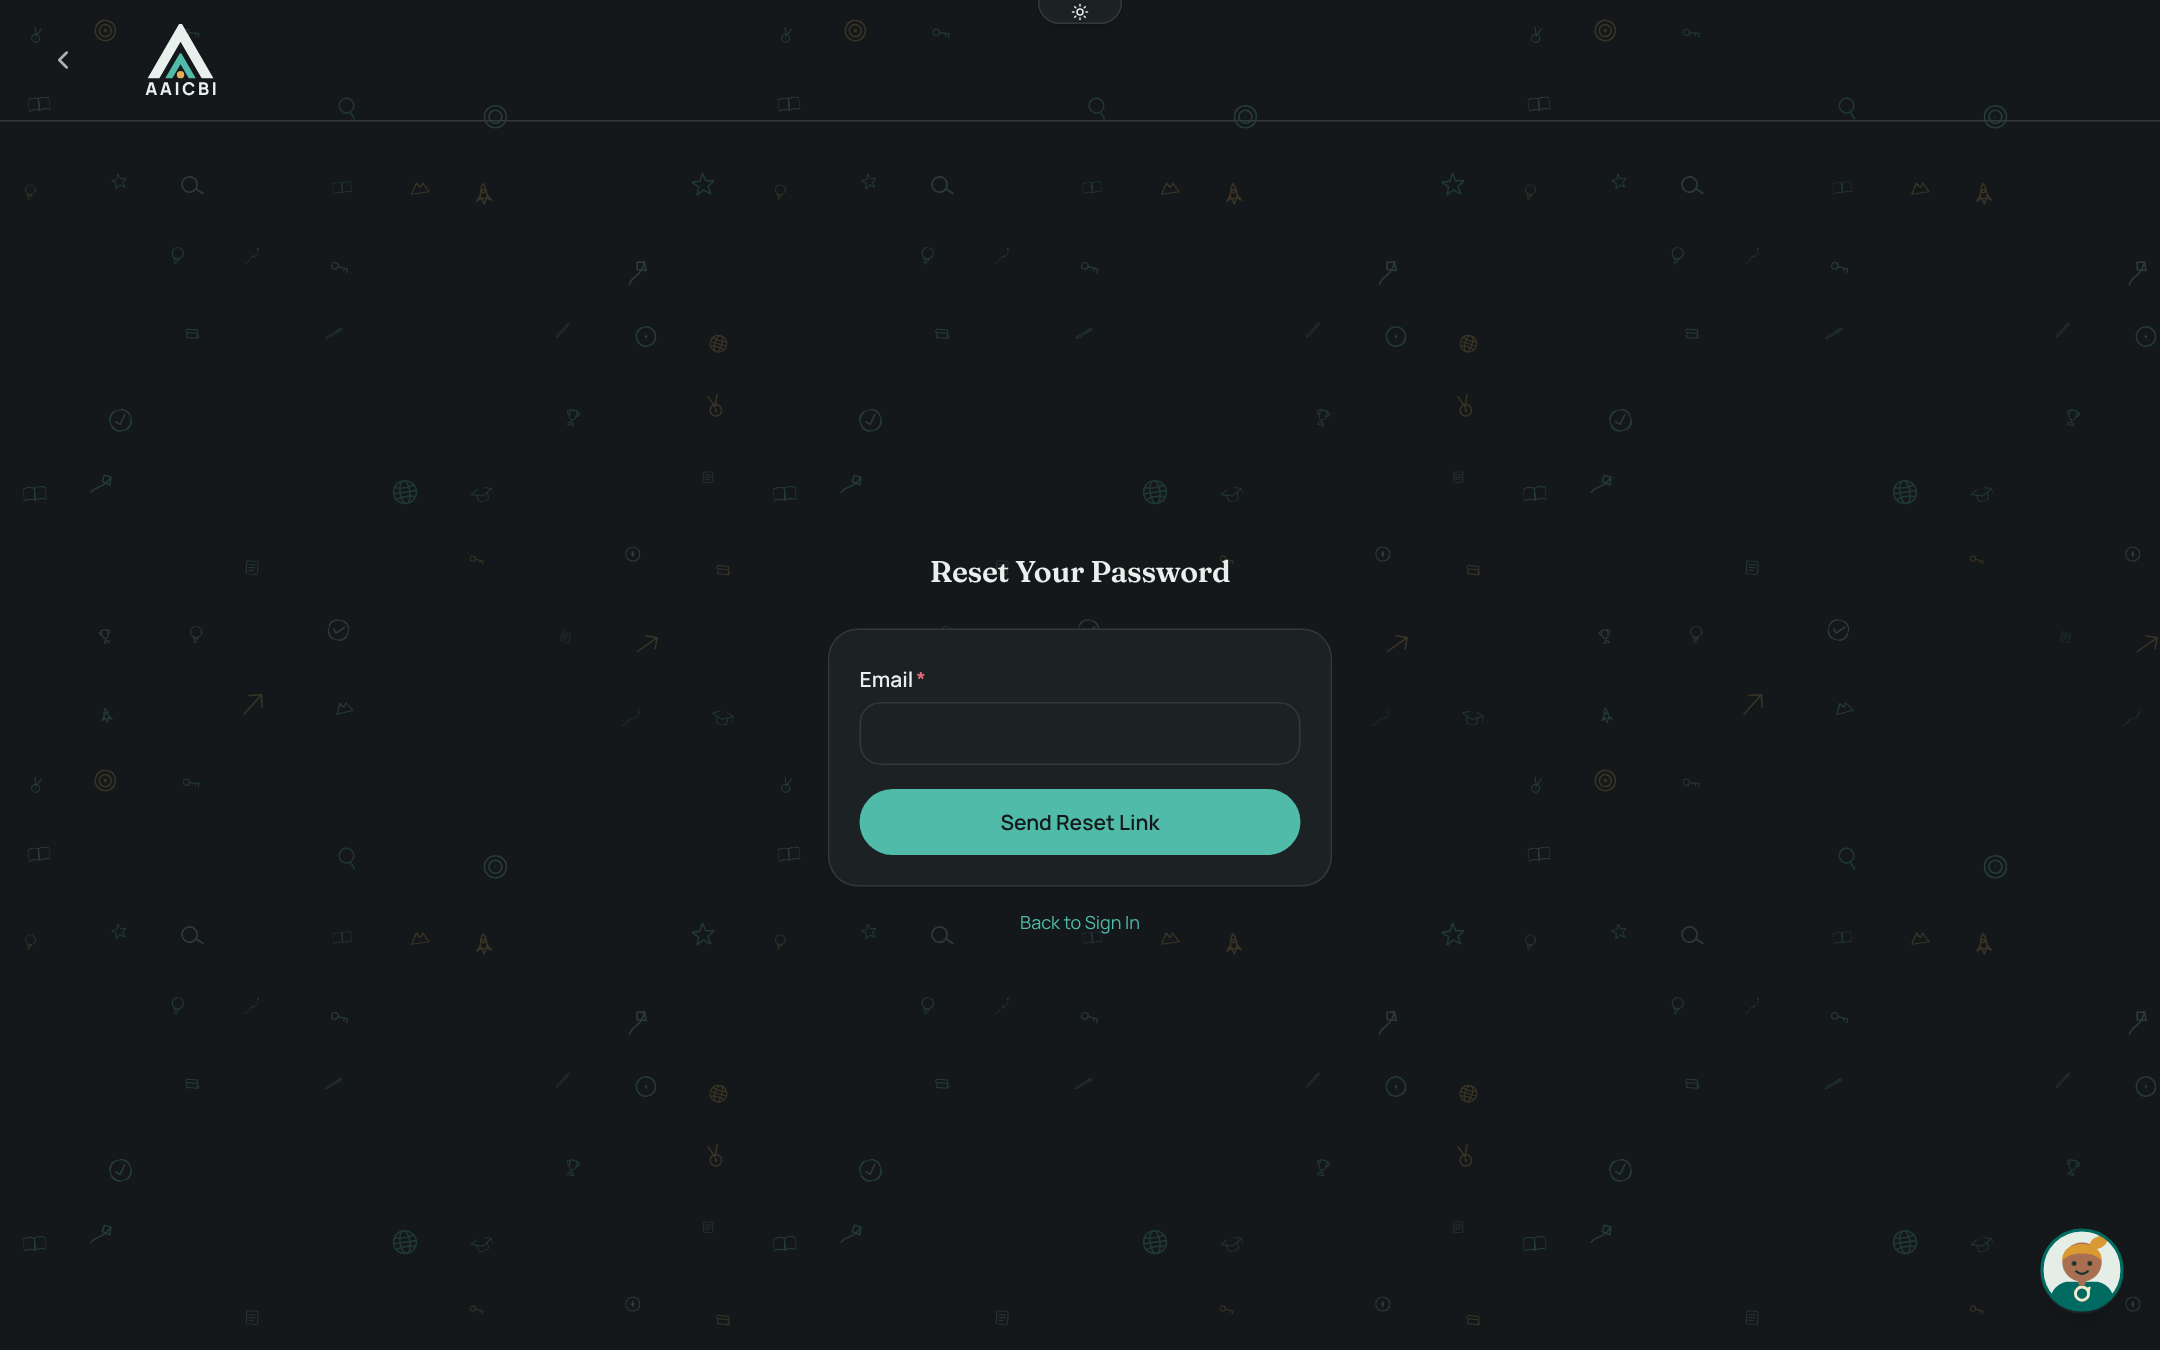
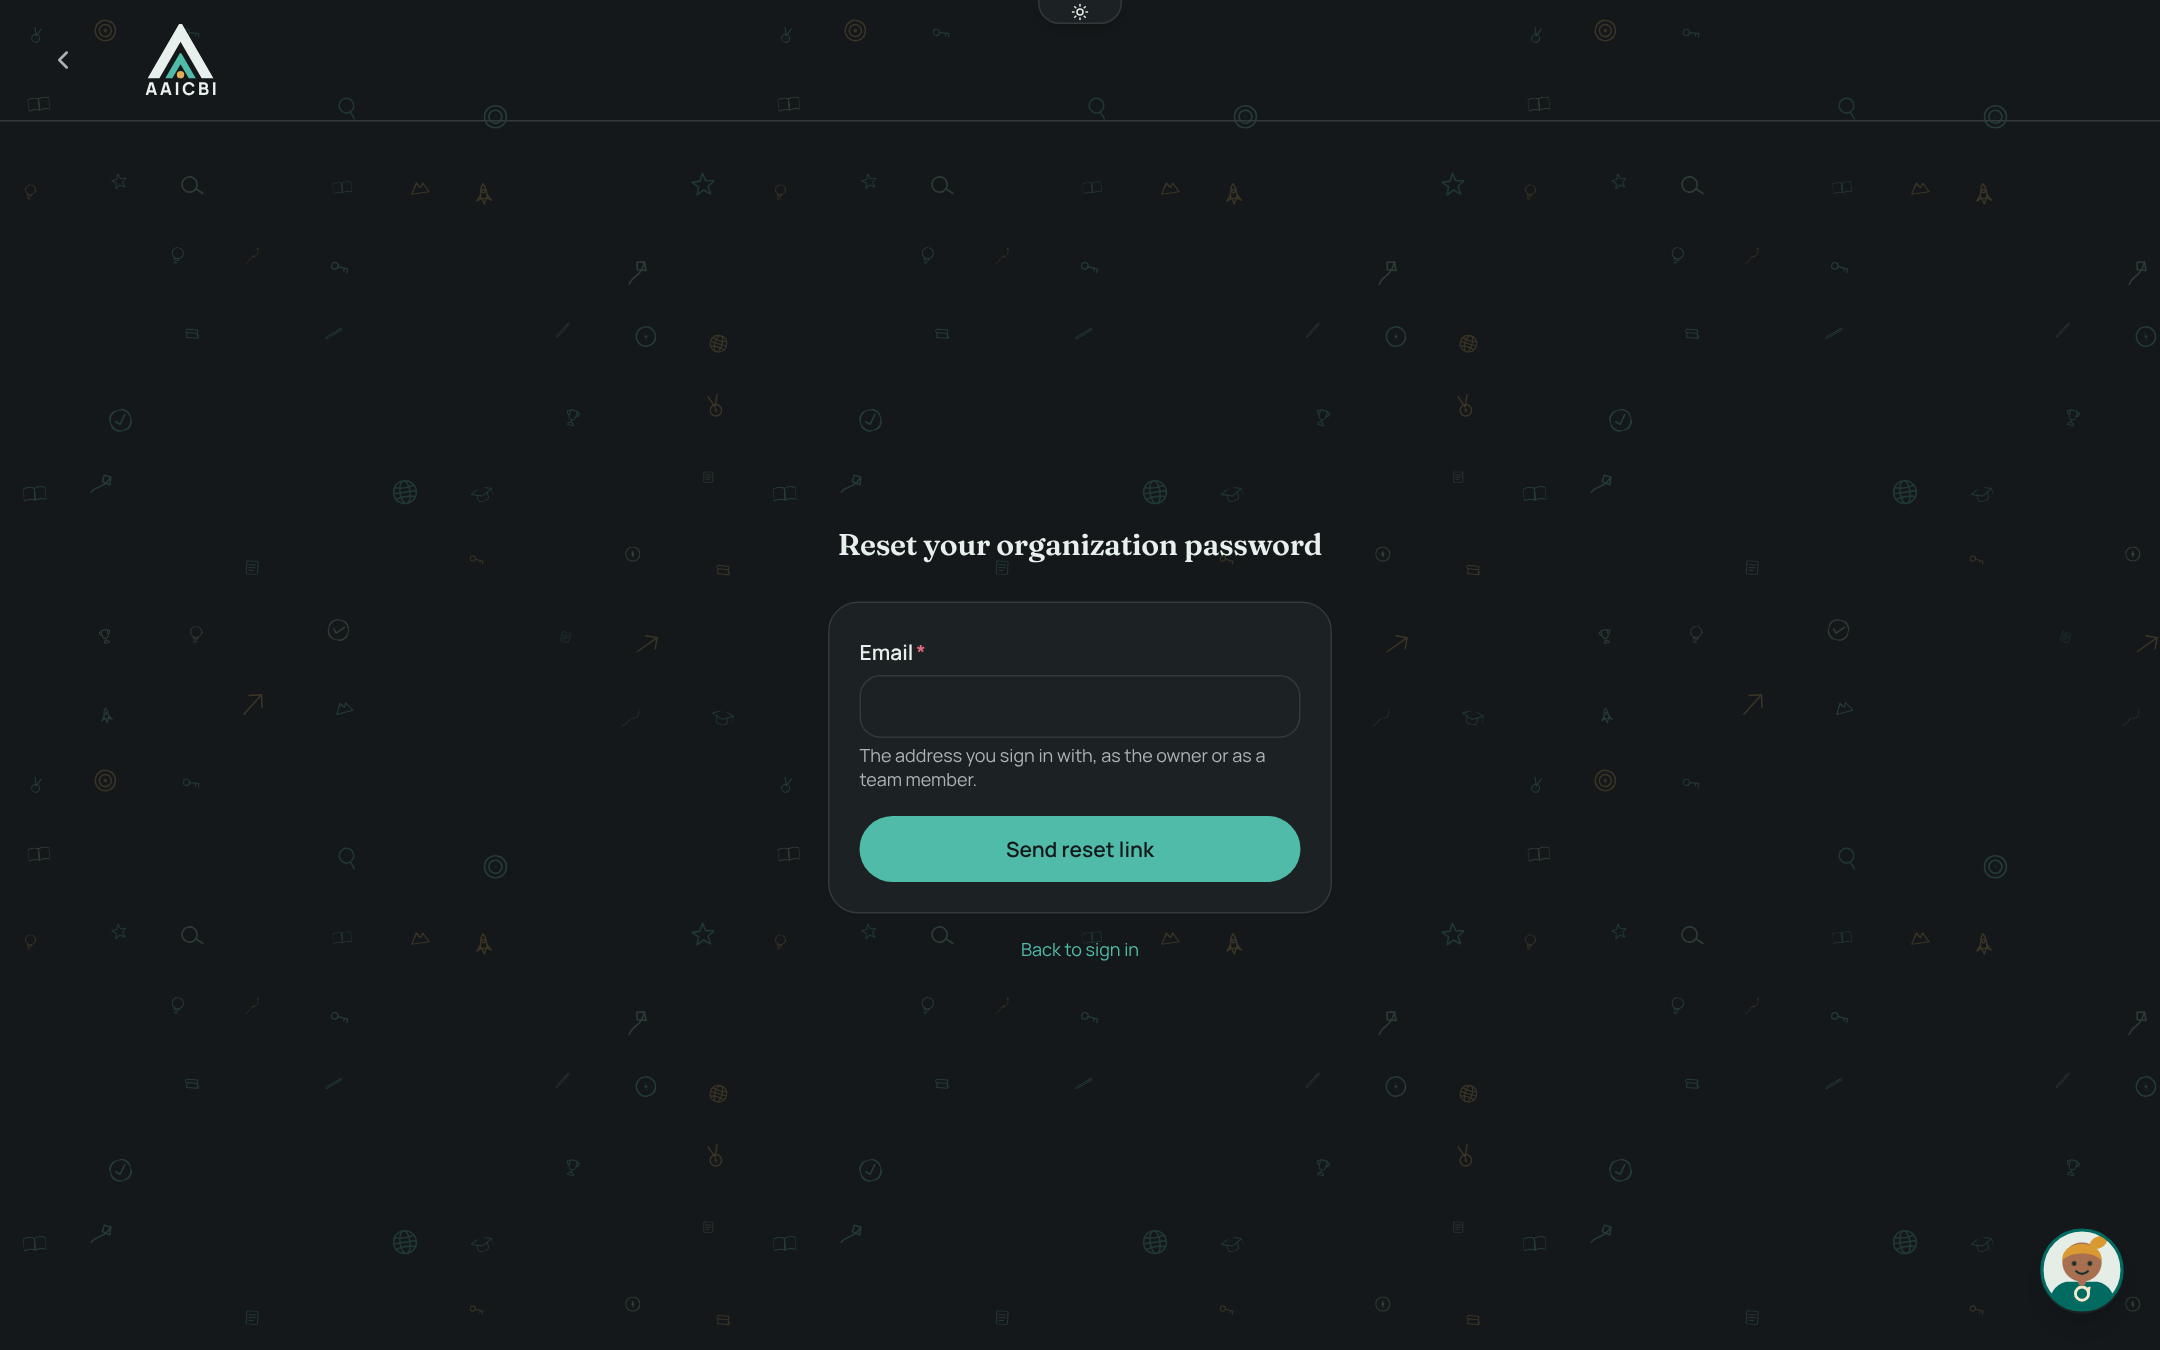
Manuals: describe password reset, change password, Trainees page and clean Dashboard; refreshed screens (work in progress)

diff --git a/docs/manual/REPORT.md b/docs/manual/REPORT.md
@@ -19,19 +19,21 @@ The platform was built and run locally against a throwaway demonstration databas
 
 Public home and feed, search, the Join page and account types, organisation registration and approval, organisation and trainee sign-in, trainee registration and email verification, the organisation workspace (Overview, Dashboard, menus, roles), public profile, team, courses (create, manage, enrol, cohorts, early warnings, performance, Q&A, certificates), examinations, assignments, certificate studio, education videos, program skills, events, member posts, content and visibility, the organisation Games section (results, live games, moderation, chat games, settings, history, escalation), messages and notifications, settings and support; for trainees: dashboard, courses, joining, practice, assessments, examinations, assignments, certificates, progress and analytics, Ayakbi Arena, course chat, ladder, feed and posting, messages, notifications, profile and settings.
 
-## Things found that are not as a reader might expect (documented as limitations)
+## Things found while documenting, and how each was resolved
 
-- The organisation sign-in page has **no “Forgot password” link**. The manual says so and points to the support placeholder.
-- Organisation accounts have **no “all trainees” page**: the address `/admin/trainees` shows “We couldn’t load trainees”, and `/admin/cohorts` is a “page not found”. The manual describes the real routes (Overview, a course’s Enrollments, Performance, Messages) instead.
-- The top three tiles of the organisation **Dashboard** (pending employers, job postings to review, flagged profiles) are review counters shared with the AAICBI team’s dashboard. They are explained, not recommended for daily use. This may be worth a product review.
-- The **AI Platform Assistant** switch in organisation Settings says the feature is not available yet; the manual says the same.
-- Neither the organisation nor the trainee **Settings** page has a “change password” box; trainees reset through “Forgot your password?”.
+Five platform gaps were found while documenting. All five were then fixed in the application and the manuals were updated to describe the fixed behaviour:
+
+- The organisation sign-in page had **no “Forgot password” link**. Now it has one, with `/org/forgot-password` and `/org/reset-password` for owners and team members.
+- Organisations had **no usable “all trainees” page** (`/admin/trainees` showed “We couldn’t load trainees”). There is now **Organization → Trainees**, limited to the organisation’s own trainees; the old address redirects to it. (`/admin/cohorts` is still not a page: cohorts live inside each course.)
+- The organisation **Dashboard** showed the AAICBI team’s review counters (pending employers, job postings, flagged profiles) and staff-only links. These are hidden for organisations.
+- The inert **AI Platform Assistant** switch was removed from Settings.
+- Neither Settings page had a **change password** box. Both now have one (current password, then the new one twice).
 - The **Gaming Studio** is not described as an organisation feature anywhere; the manual states that organisations do not have it.
 
 ## Remaining gaps and items for approval
 
 1. **Support contact:** no support email, phone or help page is published inside the platform pages. A clearly marked placeholder in “Getting help” must be replaced with approved details. Organisations can already use **Settings → Message the Super Admin**.
-2. **Sign-in help for organisation owners** has no in-platform route; it depends on the support contact above.
+2. **Password reset emails** need email sending to be configured for the environment (the same as the existing trainee reset). The reset links in the manual describe the normal behaviour once email is working; in the local test environment the reset token was read from the database.
 3. **Branding:** the AAICBI logo and brand colours from `docs/brand` were used; no replacement was invented. The PDF pages are light (for printing) while the screenshots are dark (the platform default).
 4. **Screens not photographed because they need data the demo did not have:** an actual assessment attempt in progress, a paid-course checkout (Paystack), a published public organisation page seen by a visitor, an organisation’s game results with exports switched on, and the trainee’s own course group chat with several people typing at once. They are described in text.
 5. **Games screens** use sample game activity added to the demonstration database so the tabs show realistic data; real organisations will see their own.
